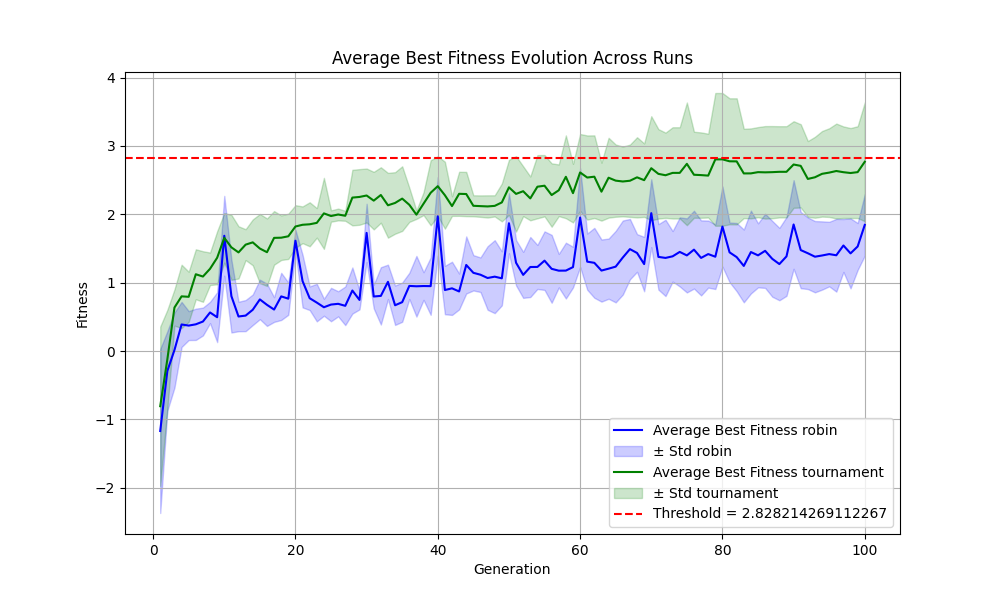
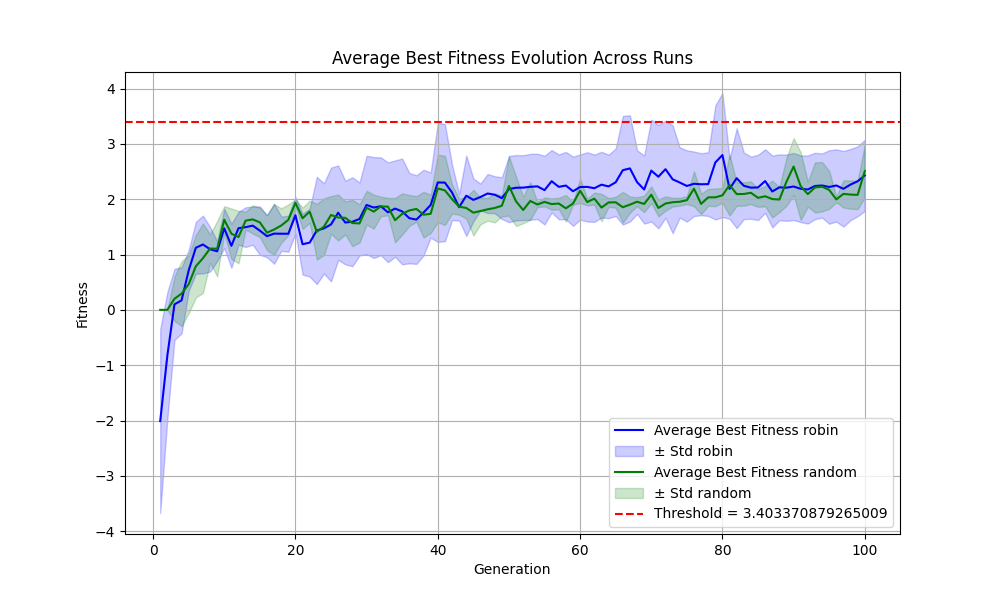
gif generation

diff --git a/students/do_report_graphs.py b/students/do_report_graphs.py
@@ -85,12 +85,12 @@ def plot_average_fitness_evolution(directory1, directory2, final_directory, algo
     plt.close()
     print(f"Plot saved to {output_path}")
 
-plot_average_fitness_evolution("results/co_evolution/robin/CaveCrawler-v0/",
-                               "results/co_evolution/tournament/CaveCrawler-v0/",
+plot_average_fitness_evolution("results/co_evolution/robin2/CaveCrawler-v0/",
+                               "results/co_evolution/random/CaveCrawler-v0/",
                                "results/co_evolution/",
                                "robin",
-                               "tournament",
+                               "random",
                                5,
-                               2.86138843004549,
+                               4.498773276526776,
                                "coevolution_cave_crawler")
 

diff --git a/students/create_robot_gifs.py b/students/create_robot_gifs.py
@@ -93,4 +93,4 @@ def process_robot_structures(directory, scenario, steps, duration=0.066):
 
 
 
-process_robot_structures("results/co_evolution/tournament/CaveCrawler-v0/", "CaveCrawler-v0", 500)
+process_robot_structures("results/co_evolution/robin2/G-v0/", "CaveCrawler-v0", 500)
